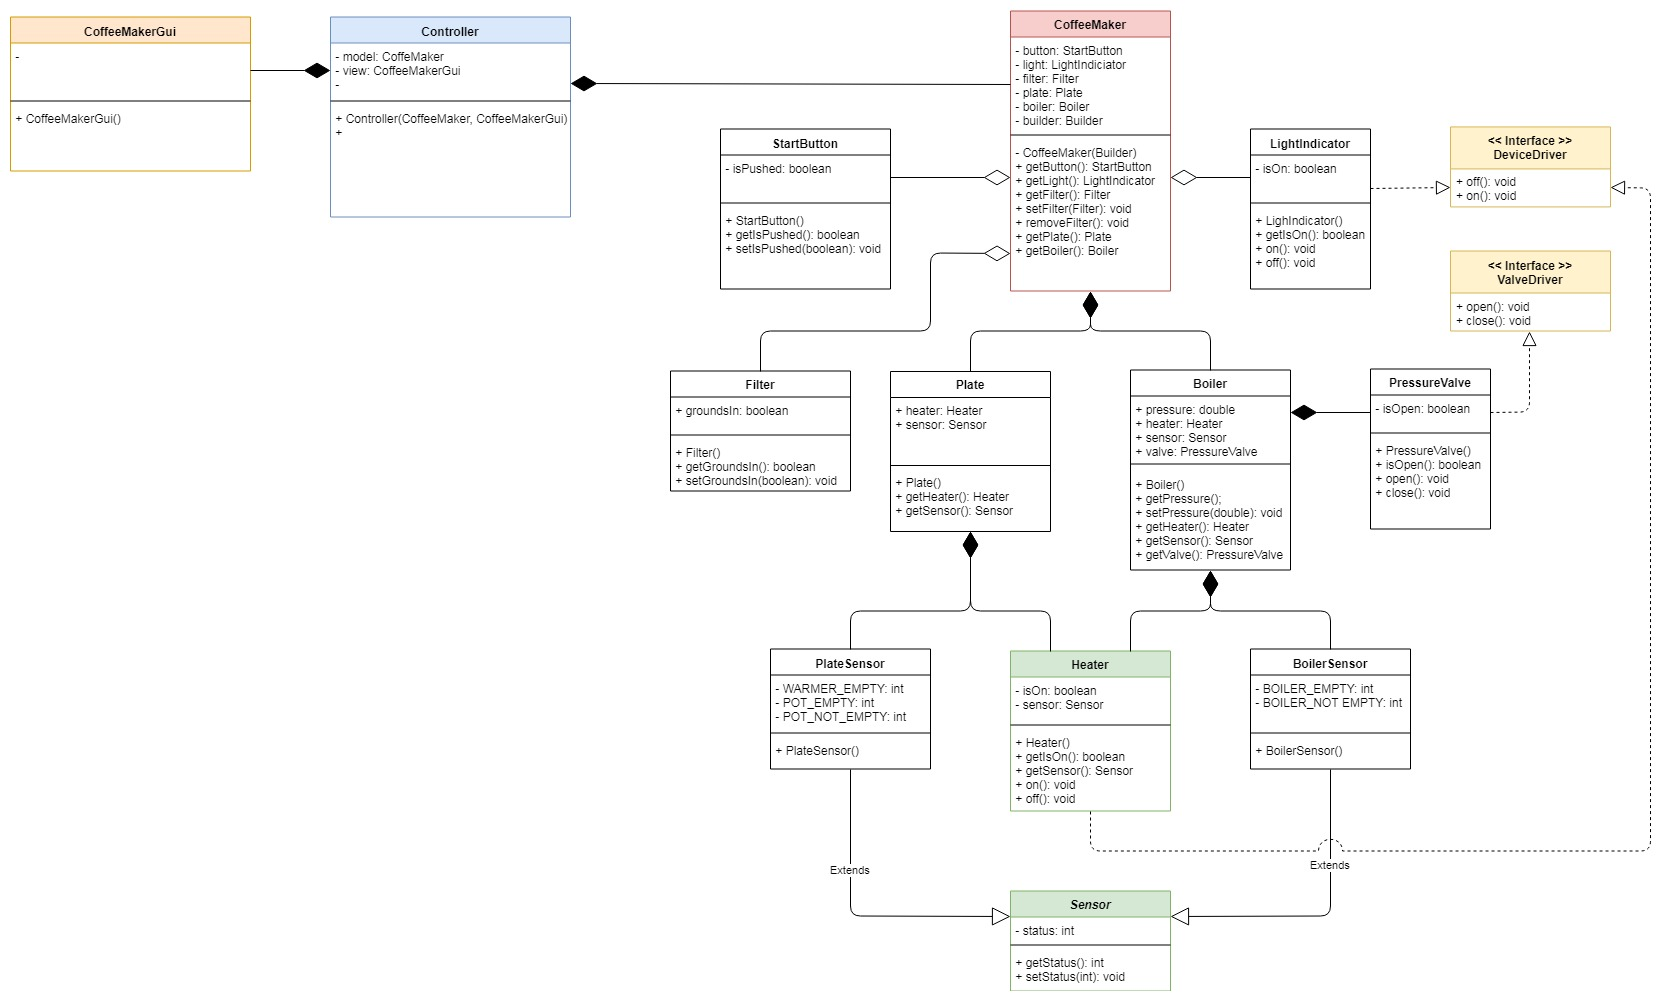
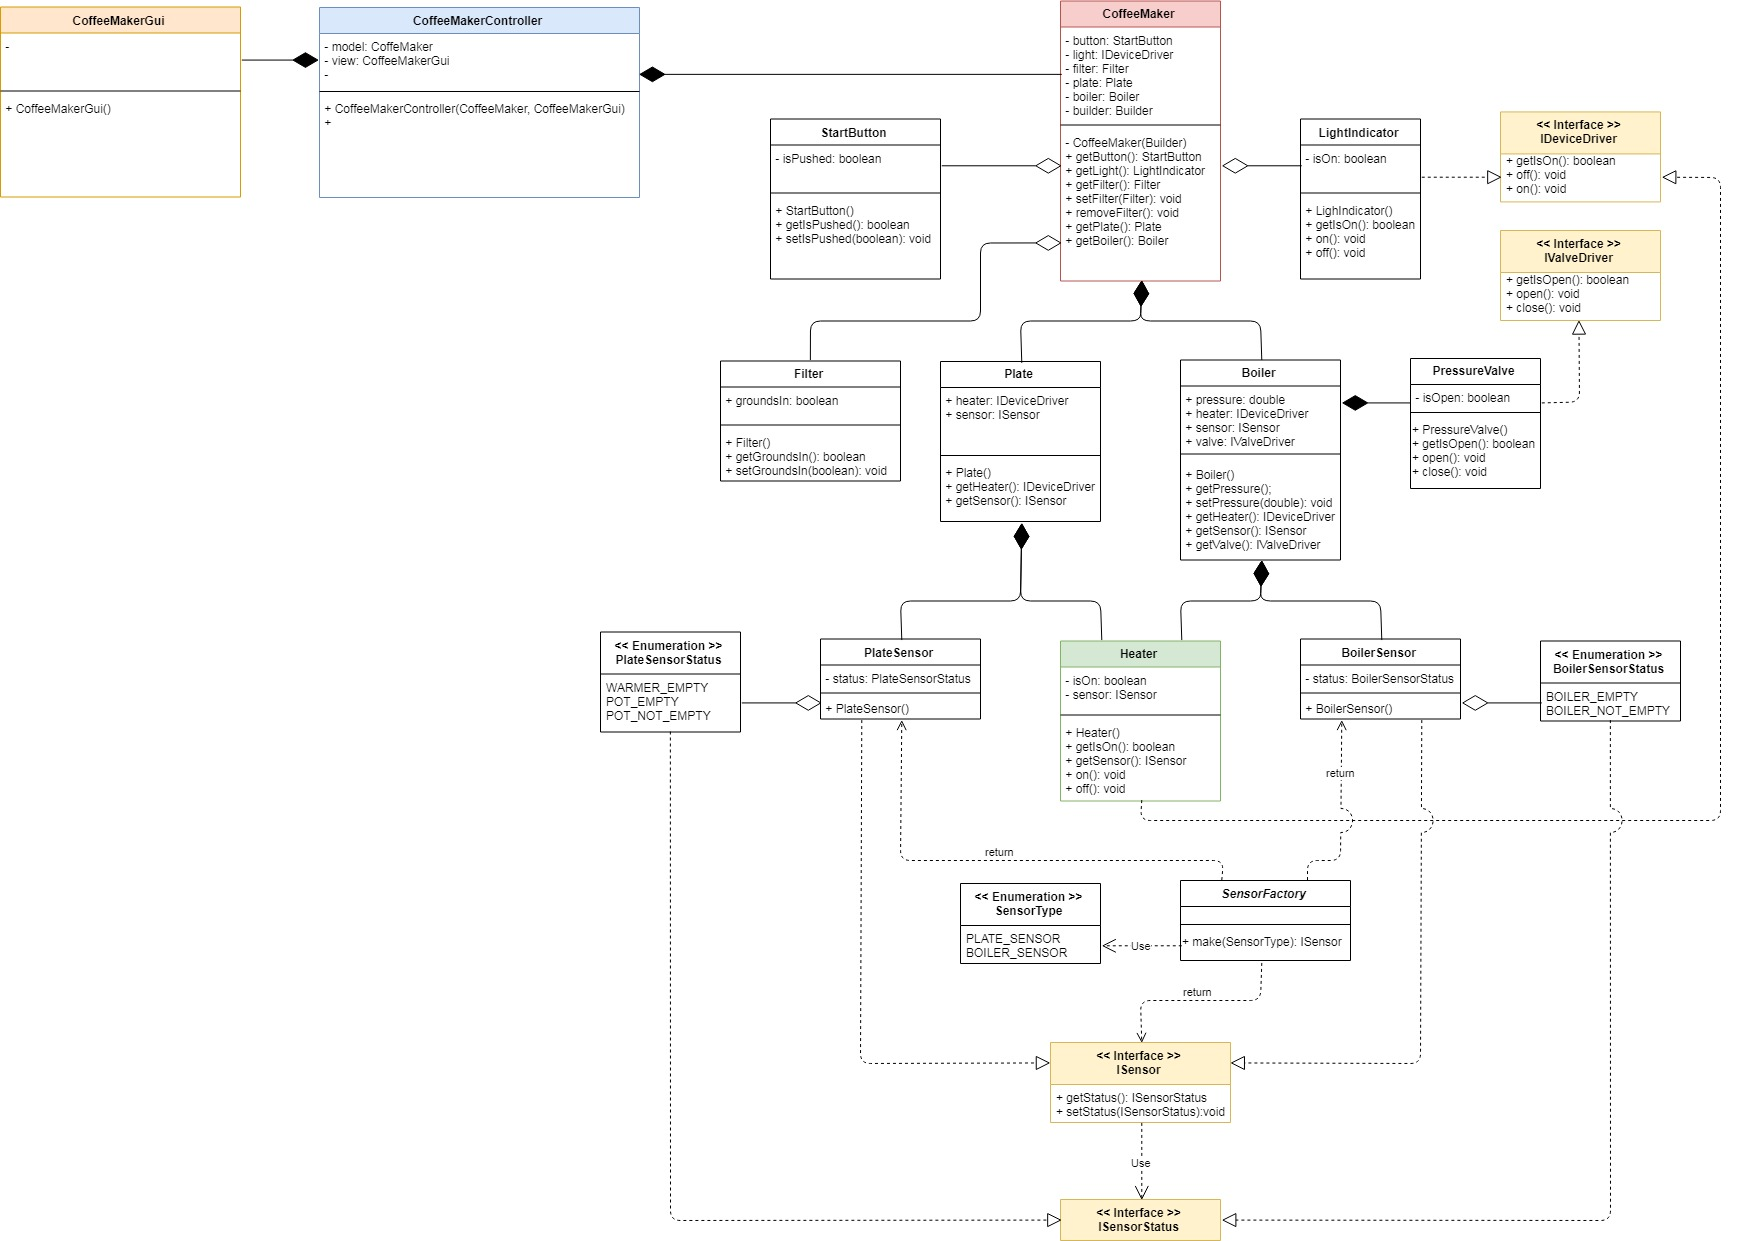
UML updated to match latest changes.

diff --git a/src/main/CoffeeMaker.java b/src/main/CoffeeMaker.java
@@ -2,7 +2,7 @@ package main;
 
 public class CoffeeMaker {
 	StartButton button;
-	DeviceDriver light;
+	IDeviceDriver light;
 	Filter filter;
 	Plate plate;
 	Boiler boiler;
@@ -23,14 +23,8 @@ public class CoffeeMaker {
 	public StartButton getButton() {
 		return this.button;
 	}
-	public void setButton(StartButton button) {
-		this.button = button;
-	}
-	public DeviceDriver getLightIndicator() {
+	public IDeviceDriver getLight() {
 		return this.light;
-	}
-	public void setLightIndicator(LightIndicator light) {
-		this.light = light;
 	}
 	public Filter getFilter() {
 		return filter;
@@ -48,6 +42,7 @@ public class CoffeeMaker {
 		return this.boiler;
 	}
 	/* ***************** */
+
 
 
 

diff --git a/src/main/Boiler.java b/src/main/Boiler.java
@@ -2,9 +2,9 @@ package main;
 
 public class Boiler {
 	double pressure;
-	DeviceDriver heater;
-	Sensor sensor;
-	ValveDriver valve;
+	IDeviceDriver heater;
+	ISensor sensor;
+	IValveDriver valve;
 	
 	public Boiler () {
 		pressure = 0.0;
@@ -21,15 +21,15 @@ public class Boiler {
 		this.pressure = pressure;
 	}
 
-	public DeviceDriver getHeater() {
+	public IDeviceDriver getHeater() {
 		return heater;
 	}
 
-	public Sensor getSensor() {
+	public ISensor getSensor() {
 		return sensor;
 	}
 
-	public ValveDriver getValve() {
+	public IValveDriver getValve() {
 		return valve;
 	}
 }

diff --git a/src/main/Plate.java b/src/main/Plate.java
@@ -1,19 +1,19 @@
 package main;
 
 public class Plate {
-	DeviceDriver heater;
-	Sensor sensor;
+	IDeviceDriver heater;
+	ISensor sensor;
 	
 	public Plate () {
 		this.heater = new Heater();
 		this.sensor = SensorFactory.make(SensorType.PLATE_SENSOR);
 	}
 
-	public DeviceDriver getHeater() {
+	public IDeviceDriver getHeater() {
 		return heater;
 	}
 
-	public Sensor getSensor() {
+	public ISensor getSensor() {
 		return sensor;
 	}
 }

diff --git a/src/main/BoilerSensor.java b/src/main/BoilerSensor.java
@@ -1,6 +1,6 @@
 package main;
 
-public class BoilerSensor implements Sensor {
+public class BoilerSensor implements ISensor {
 	BoilerSensorStatus status;
 
 	public BoilerSensor() {
@@ -11,7 +11,7 @@ public class BoilerSensor implements Sensor {
 		return status;
 	}
 	
-	public void setStatus(SensorStatus status) {
+	public void setStatus(ISensorStatus status) {
 		this.status = (BoilerSensorStatus) status;
 	}
 }

diff --git a/src/main/PlateSensor.java b/src/main/PlateSensor.java
@@ -1,6 +1,6 @@
 package main;
 
-public class PlateSensor implements Sensor {
+public class PlateSensor implements ISensor {
 	PlateSensorStatus status;
 	
 	public PlateSensor() {
@@ -11,7 +11,7 @@ public class PlateSensor implements Sensor {
 		return this.status;
 	}
 	
-	public void setStatus(SensorStatus status) {
+	public void setStatus(ISensorStatus status) {
 		this.status = (PlateSensorStatus) status;
 	}
 }

diff --git a/src/main/Heater.java b/src/main/Heater.java
@@ -1,8 +1,8 @@
 package main;
 
-public class Heater implements DeviceDriver {
+public class Heater implements IDeviceDriver {
 	boolean isOn;
-	Sensor sensor;
+	ISensor sensor;
 	
 	public Heater () {
 		isOn = false;
@@ -12,7 +12,7 @@ public class Heater implements DeviceDriver {
 		return isOn;
 	}
 	
-	public Sensor getSensor () {
+	public ISensor getSensor () {
 		return sensor;
 	}
 	

diff --git a/src/main/SensorFactory.java b/src/main/SensorFactory.java
@@ -1,7 +1,7 @@
 package main;
 
 abstract public class SensorFactory {
-	public static Sensor make(SensorType sensorType) {
+	public static ISensor make(SensorType sensorType) {
 		switch (sensorType) {
 		case PLATE_SENSOR: 
 			return new PlateSensor();

diff --git a/src/main/PlateSensorStatus.java b/src/main/PlateSensorStatus.java
@@ -1,6 +1,6 @@
 package main;
 
-public enum PlateSensorStatus implements SensorStatus {
+public enum PlateSensorStatus implements ISensorStatus {
 	WARMER_EMPTY,
 	POT_EMPTY,
 	POT_NOT_EMPTY

diff --git a/src/main/LightIndicator.java b/src/main/LightIndicator.java
@@ -1,6 +1,6 @@
 package main;
 
-public class LightIndicator implements DeviceDriver {
+public class LightIndicator implements IDeviceDriver {
 	boolean isOn;
 	
 	public LightIndicator() {

diff --git a/src/main/PressureValve.java b/src/main/PressureValve.java
@@ -1,6 +1,6 @@
 package main;
 
-public class PressureValve implements ValveDriver {
+public class PressureValve implements IValveDriver {
 	boolean isOpen;
 	
 	public PressureValve () {

diff --git a/src/main/BoilerSensorStatus.java b/src/main/BoilerSensorStatus.java
@@ -1,6 +1,6 @@
 package main;
 
-public enum BoilerSensorStatus implements SensorStatus {
+public enum BoilerSensorStatus implements ISensorStatus {
 	BOILER_EMPTY,
 	BOILER_NOT_EMPTY
 }

diff --git a/src/main/IValveDriver.java b/src/main/IValveDriver.java
@@ -1,6 +1,6 @@
 package main;
 
-public interface ValveDriver {
+public interface IValveDriver {
 	boolean getIsOpen();
 	void open();
 	void close();
